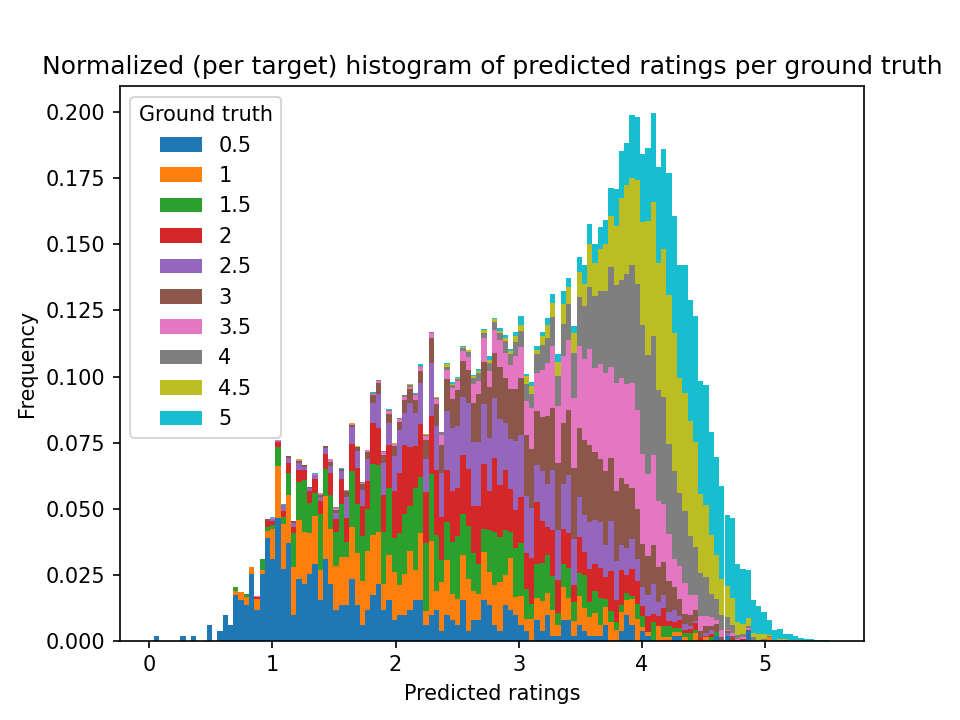
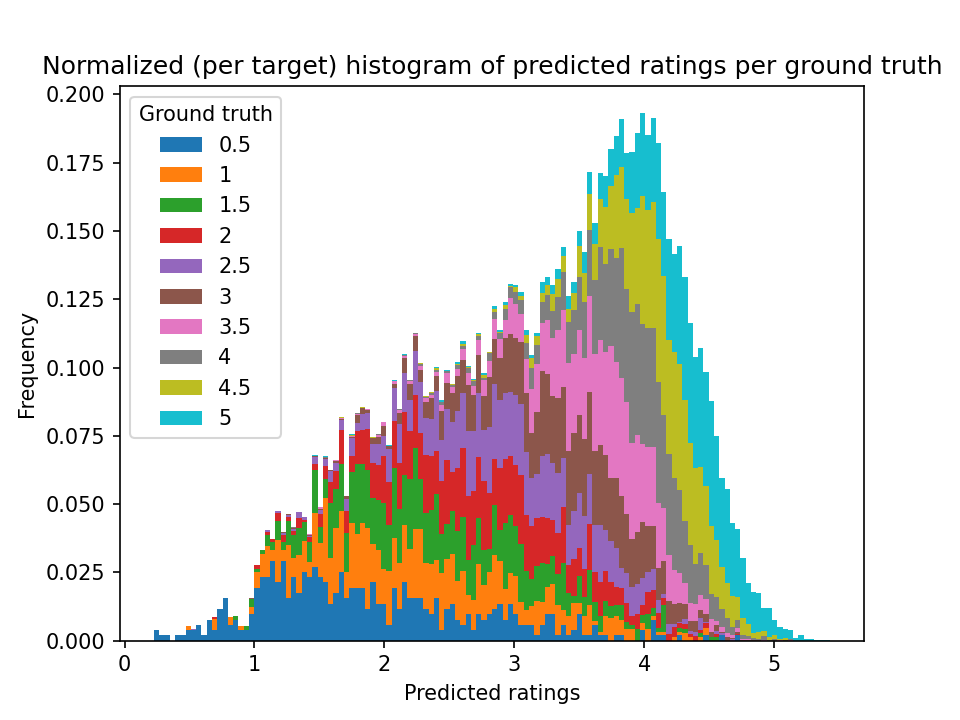
Minor whatevers

diff --git a/src/create_training_data.py b/src/create_training_data.py
@@ -52,6 +52,9 @@ def load_imdb_metadata_features(unique_movies: pd.Series, use_extended=False):
     ns_principals = Namespace('https://www.imdb.com/name/')
     ns_predicates = Namespace('http://example.org/props/')
 
+    # our_movies = '("' + '"), ("'.join(unique_movies.index) + '")'
+    # our_movies = '<' + '> <'.join(unique_movies.index) + '>'
+
     print('Loading rdf...')
     rdf = Graph().parse(rdf_path + ('movies_extended.nt' if use_extended else 'movies_pruned_actors.nt'), format='nt')
     print('done')
@@ -142,12 +145,12 @@ def save_set(matrix: pd.DataFrame, name: str):
 
 
 if __name__ == '__main__':
-    recalculate_metadata = False
+    recalculate_metadata = True
     use_genom_tags = True
     save_user_ratings = True
     random_vs_temporal_splitting = True
     create_user_embeddings_too = True
-    split_embeddings_from_train = False   # don't do this
+    split_embeddings_from_train = False  # don't do this
     use_audio = True
     LIMIT_USERS = None
     MIN_VOTES = 100  # 70
@@ -167,7 +170,7 @@ if __name__ == '__main__':
         # filter utility matrix as per users:
         user_votes = utility_matrix.groupby('userId')['rating'].count()
         print('Original users:', len(user_votes))
-        user_votes = user_votes[user_votes >= MIN_VOTES]   # at least these many votes on movies
+        user_votes = user_votes[user_votes >= MIN_VOTES]  # at least these many votes on movies
         print('Keeping this many users based on number of votes:', len(user_votes))
         utility_matrix = utility_matrix[utility_matrix.index.isin(user_votes.index)]
         print('Utility matrix:', utility_matrix.shape)
@@ -181,9 +184,11 @@ if __name__ == '__main__':
         if use_genom_tags:
             metadata = genome_metadata.join(imdb_metadata, on='movieId', how='inner')
             metadata = pd.DataFrame(index=metadata.index,
-                                    data={'features': metadata.apply(lambda x: np.concatenate([np.array(x.iloc[:-1], dtype=np.float64),
-                                                                                               np.array(x['features'], dtype=np.float64)], dtype=np.float64),
-                                                                     axis=1)})
+                                    data={'features': metadata.apply(
+                                        lambda x: np.concatenate([np.array(x.iloc[:-1], dtype=np.float64),
+                                                                  np.array(x['features'], dtype=np.float64)],
+                                                                 dtype=np.float64),
+                                        axis=1)})
         else:
             metadata = imdb_metadata
         print(f'Found {metadata.shape[0]} movies.\nSaving metadata...')
@@ -211,8 +216,8 @@ if __name__ == '__main__':
         np.random.shuffle(indices)
         val = utility_matrix.iloc[indices[:val_split]]
         test = utility_matrix.iloc[indices[val_split: test_split]]
-        if split_embeddings_from_train:    # bad idea, isn't helping
-            embedding_split = test_split + int(np.floor(0.35 * size))   # (1 - (0.15 + 0.15)) / 2 = 0.7 / 2 = 0.4
+        if split_embeddings_from_train:  # bad idea, isn't helping
+            embedding_split = test_split + int(np.floor(0.35 * size))  # (1 - (0.15 + 0.15)) / 2 = 0.7 / 2 = 0.4
             embeddings = utility_matrix.iloc[indices[test_split: embedding_split]]
             train = utility_matrix.iloc[indices[embedding_split:]]
         else:
@@ -229,11 +234,13 @@ if __name__ == '__main__':
         utility_matrix['test_split'] = test_splits
         # do train-val-test split according to the new broadcasted columns
         train = utility_matrix[utility_matrix['timestamp'] < utility_matrix['val_split']]
-        val = utility_matrix[(utility_matrix['timestamp'] >= utility_matrix['val_split']) & (utility_matrix['timestamp'] < utility_matrix['test_split'])]
+        val = utility_matrix[(utility_matrix['timestamp'] >= utility_matrix['val_split']) & (
+                    utility_matrix['timestamp'] < utility_matrix['test_split'])]
         test = utility_matrix[utility_matrix['timestamp'] >= utility_matrix['test_split']]
         embeddings = None
 
-    print(f'Training shape: {train.shape}, Validation shape: {val.shape}, Test shape: {test.shape}' + (f', Embedding shape: {embeddings.shape}' if split_embeddings_from_train else ''))
+    print(f'Training shape: {train.shape}, Validation shape: {val.shape}, Test shape: {test.shape}' + (
+        f', Embedding shape: {embeddings.shape}' if split_embeddings_from_train else ''))
 
     if save_user_ratings:
         # user_ratings: pd.DataFrame = utility_matrix.drop('timestamp', axis=1).groupby('userId').apply(list)
@@ -243,7 +250,8 @@ if __name__ == '__main__':
         else:
             ratings_to_use = train
         # IMPORTANT to sort by movieId
-        user_ratings: pd.DataFrame = ratings_to_use.drop('timestamp', axis=1).sort_values(by='movieId').groupby('userId').agg({'rating': list, 'movieId': list})
+        user_ratings: pd.DataFrame = ratings_to_use.drop('timestamp', axis=1).sort_values(by='movieId').groupby(
+            'userId').agg({'rating': list, 'movieId': list})
         user_ratings['rating'] = user_ratings['rating'].apply(lambda x: np.array(x))
         user_ratings['movieId'] = user_ratings['movieId'].apply(lambda x: np.array(x))
         user_ratings['meanRating'] = user_ratings['rating'].apply(lambda x: np.mean(x))
@@ -252,16 +260,20 @@ if __name__ == '__main__':
         print(user_ratings.shape)
         user_ratings.to_hdf(user_ratings_file + '.h5', key='user_ratings', mode='w')
         print('OK!')
-        print(f'Average number of ratings per user (in train set): {user_ratings["rating"].apply(lambda x: len(x)).mean()}')
+        print(
+            f'Average number of ratings per user (in train set): {user_ratings["rating"].apply(lambda x: len(x)).mean()}')
 
         if create_user_embeddings_too:
             # create user_embeddings from user ratings once beforehand
             # Note: This takes a very long time
             print('Creating user embeddings...')
 
+
             def create_user_embedding(user_ratings: pd.DataFrame, metadata: pd.DataFrame):
                 avg_rating = user_ratings['rating'].mean()
-                return ((user_ratings['rating'] - avg_rating) * metadata.loc[user_ratings['movieId']]['features'].values).mean()  # TODO: sum or mean?
+                return ((user_ratings['rating'] - avg_rating) * metadata.loc[user_ratings['movieId']][
+                    'features'].values).mean()  # TODO: sum or mean?
+
 
             user_embeddings = pd.DataFrame(index=user_ratings.index.unique().copy(), data={'embedding': object})
             for userId, user_ratings in tqdm(user_ratings.groupby('userId'), desc='Creating user embeddings...'):

diff --git a/src/datasets/dynamic_dataset.py b/src/datasets/dynamic_dataset.py
@@ -97,7 +97,7 @@ class MyCollator:
             return my_collate_fn2(batch, with_names=self.with_names)
 
 
-def my_collate_fn(batch, with_names=False):
+def my_collate_fn(batch, with_names=False, ignore_ratings=False):
     # turn per-row to per-column
     batch_data = list(zip(*batch))
     # stack torch tensors from dataset
@@ -111,9 +111,10 @@ def my_collate_fn(batch, with_names=False):
     rated_items_ids = np.unique(np.concatenate(user_ratings['movieId'].values))   # TODO: must return ordered list (seems to)
     # multi-hot encode sparse ratings into a matrix form
     user_matrix = multihot_encode(user_ratings['movieId'], rated_items_ids).astype(np.float64)
-    # TODO: This will work but ONLY IF ratings are ORDERED by movieId when we create the dataset. Else the ratings will be misplaced! Be careful!
-    user_matrix[user_matrix == 1] = np.concatenate((user_ratings['rating'] - user_ratings['meanRating']).values)
-    # check: e.g. user_matrix[0, rated_movies == 'tt0114709']
+    if not ignore_ratings:
+        # TODO: This will work but ONLY IF ratings are ORDERED by movieId when we create the dataset. Else the ratings will be misplaced! Be careful!
+        user_matrix[user_matrix == 1] = np.concatenate((user_ratings['rating'] - user_ratings['meanRating']).values)
+        # check: e.g. user_matrix[0, rated_movies == 'tt0114709']
     user_matrix = torch.FloatTensor(user_matrix)       # convert to tensor
     # get features for all rated items in batch
     if features_to_use == 'metadata':
@@ -134,7 +135,7 @@ def my_collate_fn(batch, with_names=False):
         return candidate_items, rated_items, user_matrix, targets, candidate_names, rated_item_names
 
 
-def my_collate_fn2(batch, with_names=False):
+def my_collate_fn2(batch, with_names=False, ignore_ratings=False):
     # turn per-row to per-column
     batch_data = list(zip(*batch))
     # stack torch tensors from dataset
@@ -147,9 +148,10 @@ def my_collate_fn2(batch, with_names=False):
     # multi-hot encode sparse ratings into a matrix form
     all_item_ids = MovieLensDataset.get_all_itemIds_sorted()
     user_matrix = multihot_encode(user_ratings['movieId'], all_item_ids).astype(np.float64)
-    # TODO: This will work but ONLY IF ratings are ORDERED by movieId when we create the dataset. Else the ratings will be misplaced! Be careful!
-    user_matrix[user_matrix == 1] = np.concatenate((user_ratings['rating'] - user_ratings['meanRating']).values)
-    # check: e.g. user_matrix[0, rated_movies == 'tt0114709']
+    if not ignore_ratings:
+        # TODO: This will work but ONLY IF ratings are ORDERED by movieId when we create the dataset. Else the ratings will be misplaced! Be careful!
+        user_matrix[user_matrix == 1] = np.concatenate((user_ratings['rating'] - user_ratings['meanRating']).values)
+        # check: e.g. user_matrix[0, rated_movies == 'tt0114709']
     user_matrix = torch.FloatTensor(user_matrix)  # convert to tensor
     # get features for ALL items
     if features_to_use == 'metadata':

diff --git a/src/train.py b/src/train.py
@@ -7,7 +7,7 @@ from datetime import datetime
 
 from datasets.dynamic_dataset import MovieLensDataset, my_collate_fn, my_collate_fn2
 from globals import train_set_file, val_set_file, weight_decay, lr, batch_size, max_epochs, early_stop, \
-    stop_with_train_loss_instead, checkpoint_model_path, patience, dropout_rate, final_model_path, embeddings_lr, \
+    stop_with_train_loss_instead, checkpoint_model_path, patience, dropout_rate, final_model_path, \
     val_batch_size, features_to_use
 from models import NCF
 from models.AdvancedNCF import AdvancedNCF
@@ -27,11 +27,10 @@ def train_model(model: NCF, save=True, optimizer=None, writer: SummaryWriter=Non
     print('Training size:', len(train_dataset), ' - Validation size:', len(val_dataset))
 
     train_loader = DataLoader(train_dataset, batch_size=batch_size, shuffle=True, collate_fn=my_collate_fn2)
-    val_loader = DataLoader(val_dataset, batch_size=val_batch_size, collate_fn=my_collate_fn)
+    val_loader = DataLoader(val_dataset, batch_size=val_batch_size, collate_fn=my_collate_fn2)
 
     # define optimizer and loss
-    # Fore separate lrs:
-
+    # For separate lrs:
     # optimizer = optim.Adam([
     #     {'params': model.item_embeddings.parameters(), 'lr': embeddings_lr},
     #     {'params': model.MLP.parameters(), 'lr': lr}
@@ -141,21 +140,21 @@ def train_model(model: NCF, save=True, optimizer=None, writer: SummaryWriter=Non
 
 if __name__ == '__main__':
     # get metadata dim
-    item_dim = MovieLensDataset.get_metadata_dim()
+    item_dim = MovieLensDataset.get_item_feature_dim()
 
     # create model
     if features_to_use == 'audio':
         model = AttentionNCF(item_dim, dropout_rate=dropout_rate,
-                             item_emb=256, user_emb=256, att_dense=5, mlp_dense_layers=[512, 256, 128])
+                             item_emb=256, user_emb=256, att_dense=8, mlp_dense_layers=[512, 256, 128])
 
         # model = AdvancedNCF(item_dim, item_emb=256, user_emb=256, mlp_dense_layers=[512, 256, 128], dropout_rate=dropout_rate)
 
     else:
 
-        # model = AttentionNCF(item_dim, dropout_rate=dropout_rate,
-        #                      item_emb=256, user_emb=256, att_dense=5, mlp_dense_layers=[512, 256, 128])
+        model = AttentionNCF(item_dim, dropout_rate=dropout_rate,
+                             item_emb=256, user_emb=256, att_dense=8, mlp_dense_layers=[512, 256, 128])
 
-        model = AdvancedNCF(item_dim, item_emb=256, user_emb=256, mlp_dense_layers=[512, 256, 128], dropout_rate=dropout_rate)
+        # model = AdvancedNCF(item_dim, item_emb=256, user_emb=256, mlp_dense_layers=[512, 256, 128], dropout_rate=dropout_rate)
 
     print(model)
 

diff --git a/src/evaluate.py b/src/evaluate.py
@@ -19,7 +19,7 @@ device = torch.device("cuda:0" if torch.cuda.is_available() else "cpu")
 
 
 # perform attention visualization on top of evaluation
-visualize = True
+visualize = False
 keep_att_stats = False
 
 
@@ -98,7 +98,7 @@ if __name__ == '__main__':
     model_file = '../models/final_model.pt'
 
     # get metadata dim
-    item_dim = MovieLensDataset.get_metadata_dim()
+    item_dim = MovieLensDataset.get_item_feature_dim()
 
     # load model with correct layer sizes
     model = load_model(model_file, AttentionNCF)

diff --git a/src/globals.py b/src/globals.py
@@ -26,10 +26,10 @@ final_model_path = '../models/final_model.pt'
 max_epochs = 100
 batch_size = 128
 val_batch_size = 128
-embeddings_lr = 3e-4
-lr = 3e-4   # or 1e-3 if taking too long
+embeddings_lr = 3e-4    # not currently used
+lr = 5e-4
 weight_decay = 1e-5
 dropout_rate = 0.2
 early_stop = True
 stop_with_train_loss_instead = False  # Note: useful if we are trying to overfit
-patience = 5
+patience = 4
